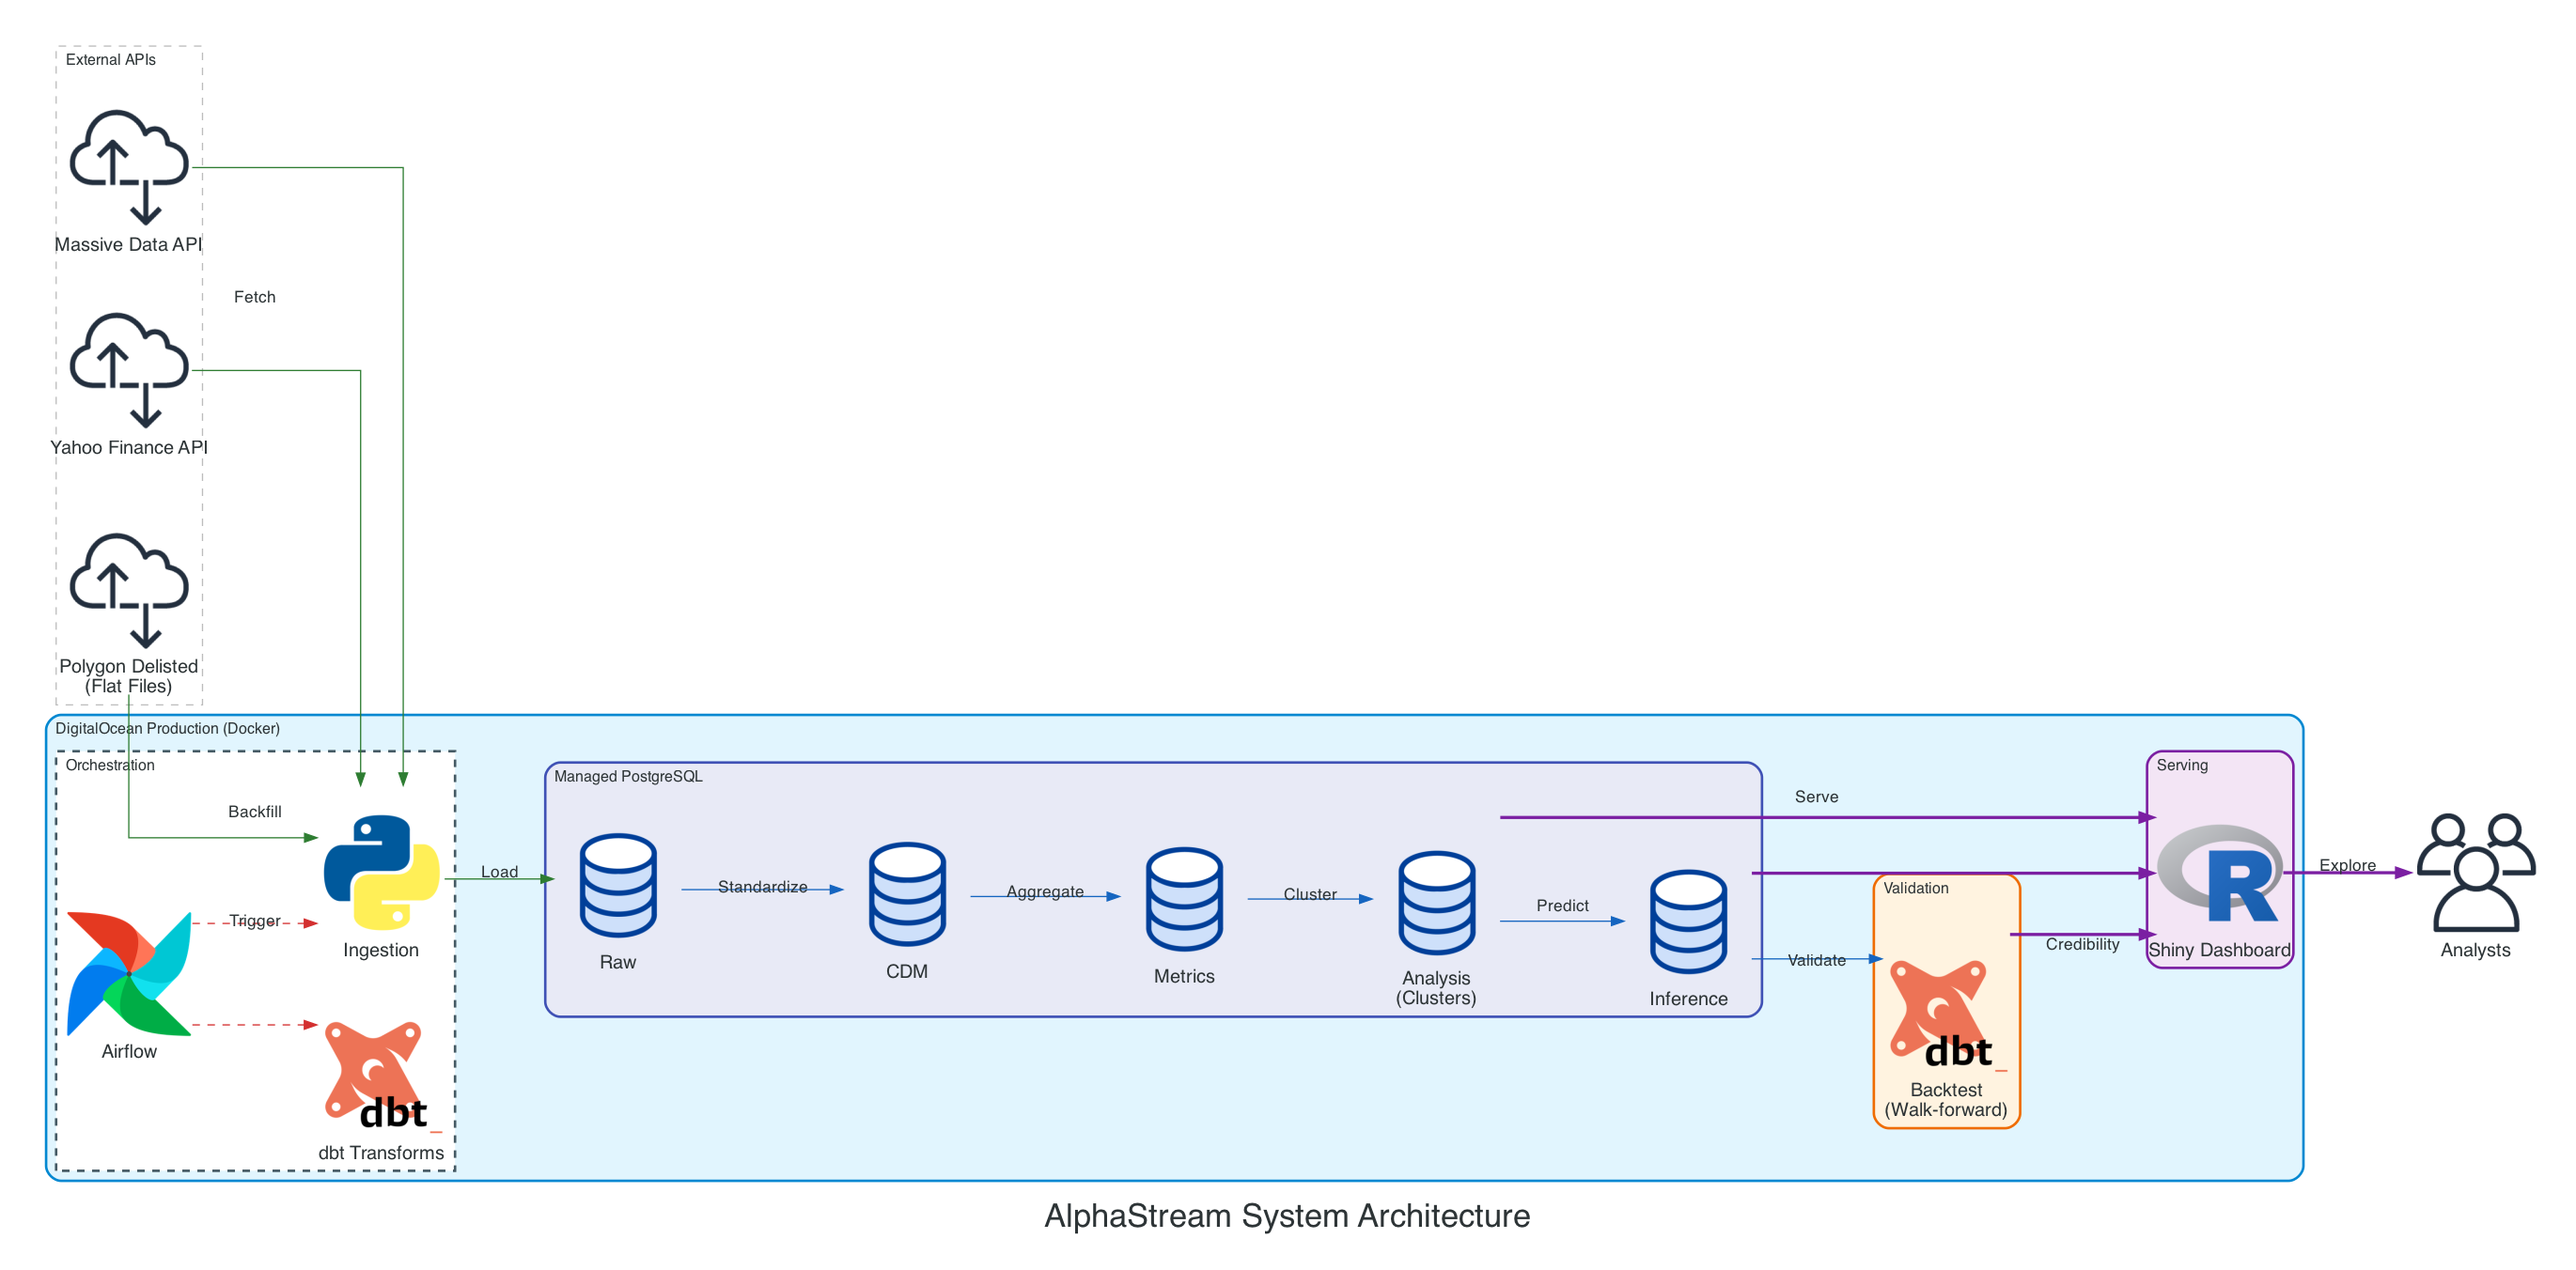
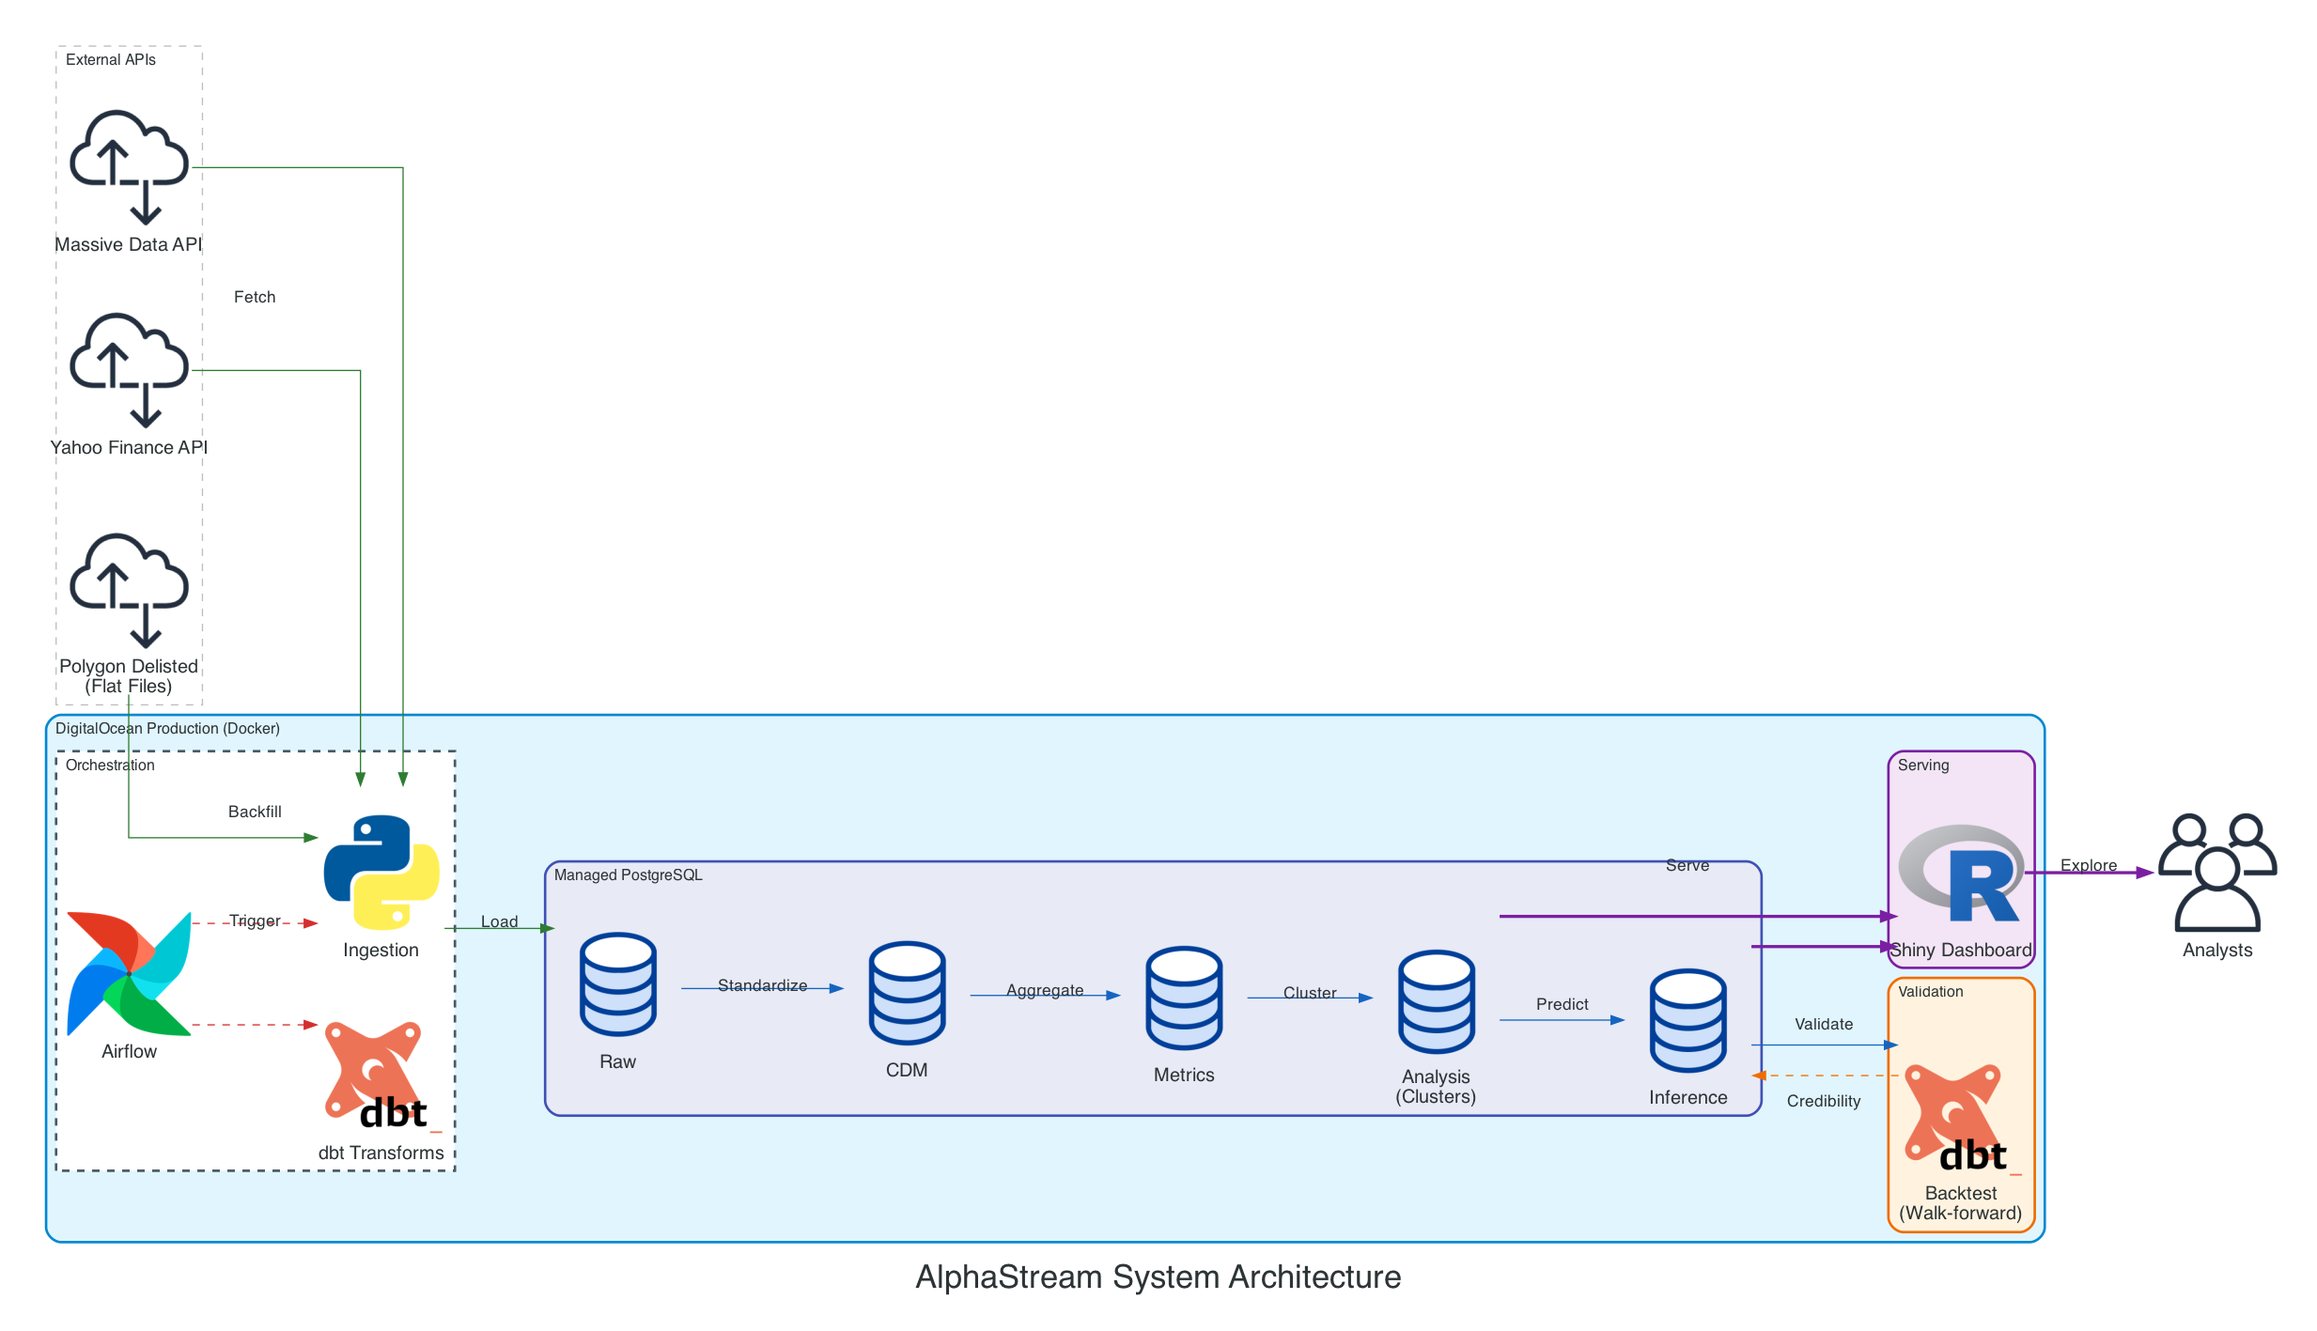
docs(arch): credibility is a backtest->inference feedback loop, not a direct dashboard feed

diff --git a/tools/project_diagram.py b/tools/project_diagram.py
@@ -38,6 +38,7 @@ edge_cfg = {
     "ingest": {"color": "#2E7D32"},
     "transform": {"color": "#1565C0"},
     "serve": {"color": "#7B1FA2", "penwidth": "2.5"},
+    "feedback": {"color": "#EF6C00", "style": "dashed"},
 }
 
 out_name = os.environ.get("DIAGRAM_OUTPUT", "alphastream_system_architecture")
@@ -99,5 +100,7 @@ with Diagram("AlphaStream System Architecture", filename=out_name, show=False,
     # Serve
     analysis >> Edge(**edge_cfg["serve"], label="Serve") >> dashboard
     inference >> Edge(**edge_cfg["serve"]) >> dashboard
-    backtest >> Edge(**edge_cfg["serve"], label="Credibility") >> dashboard
     dashboard >> Edge(**edge_cfg["serve"], label="Explore") >> analysts
+
+    # Validation feedback: walk-forward credibility gates the inference summary
+    backtest >> Edge(**edge_cfg["feedback"], label="Credibility") >> inference

diff --git a/README.md b/README.md
@@ -1,6 +1,6 @@
 # AlphaStream
 
-![Architecture Diagram](tools/alphastream_system_architecture.png?v=2)
+![Architecture Diagram](tools/alphastream_system_architecture.png?v=3)
 
 AlphaStream is an end-to-end data and analytics platform. It ingests time-series data, cleans and standardizes it, and produces statistical forecasts with an interactive dashboard on top.
 
